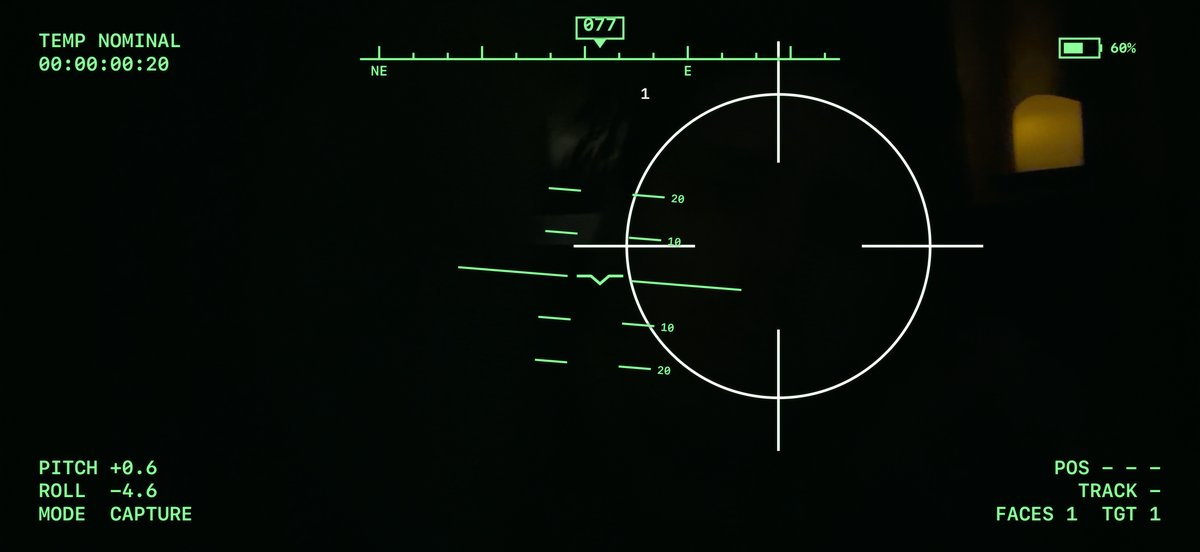
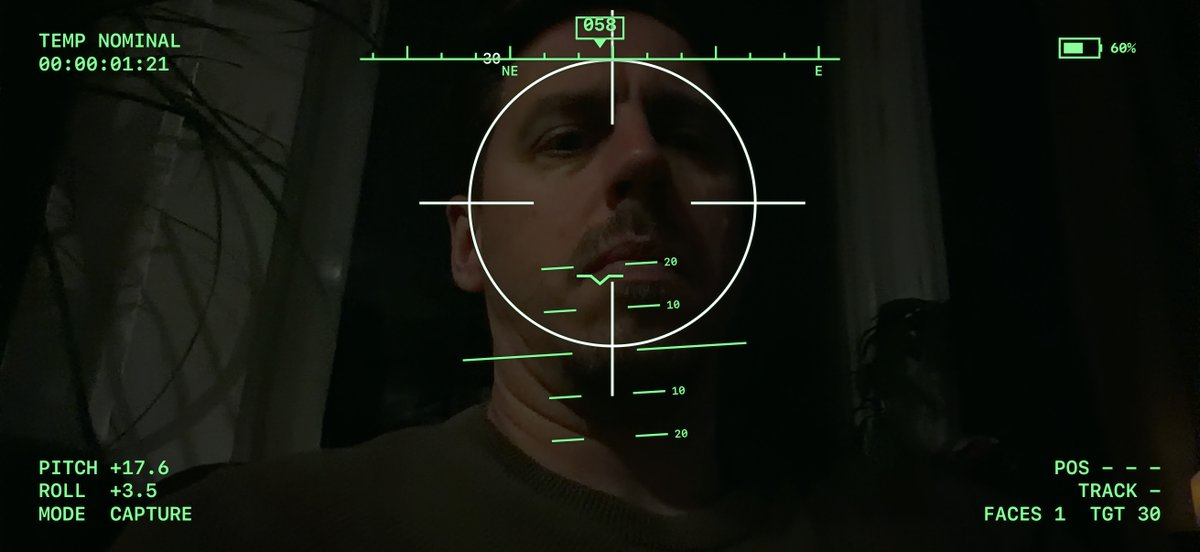
Phone HUD screenshots from build 8 on the website and README
All four HUD themes on an iPhone 18 Pro with a person in front (published
with his consent): boxes on the face, the robot's own lines, compass and
tilt; replaces the dark build 7 shots.

diff --git a/docs/index.html b/docs/index.html
@@ -142,10 +142,12 @@
           </figure>
         </div>
         <h3 style="color:#fff; margin-top: 40px">On a real phone</h3>
-        <p class="sub" style="margin-bottom: 20px">Screenshots from an iPhone 18 Pro in a dim room: the face it found is locked, with the phone's own battery, heading and tilt.</p>
+        <p class="sub" style="margin-bottom: 20px">Screenshots from an iPhone 18 Pro: the box sits on the face it found, the eyes follow it, and the phone's own battery, heading and tilt are on the HUD.</p>
         <div class="grid" style="grid-template-columns: repeat(2, minmax(0, 1fr))">
-          <img class="shot" src="media/device-hud-hunter.jpg" alt="Hunter HUD on an iPhone: red camera view in a dim room, a locked face box, compass heading 066, battery 60 percent" loading="lazy">
-          <img class="shot" src="media/device-hud-flight.jpg" alt="Flight HUD on an iPhone: compass 077, artificial horizon, crosshair on the face, battery 60 percent, pitch and roll" loading="lazy">
+          <img class="shot" src="media/device-hud-hunter.jpg" alt="Hunter HUD on an iPhone: red camera view, a box locked on a man's face, MATCH, compass heading 095, battery 60 percent" loading="lazy">
+          <img class="shot" src="media/device-hud-flight.jpg" alt="Flight HUD on an iPhone: crosshair on a man's face, compass 058, artificial horizon, pitch 17.6 degrees, battery 60 percent" loading="lazy">
+          <img class="shot" src="media/device-hud-camcorder.jpg" alt="Camcorder HUD on an iPhone: crosshair on a man's face, the robot's own lines TASK SAY HELLO and SPEED 0.4 M/S, the face in the corner" loading="lazy">
+          <img class="shot" src="media/device-hud-boot.jpg" alt="Boot HUD on an iPhone: boot text, corners locked on a man's face, LOCK, heading and tilt" loading="lazy">
         </div>
         <div class="split" style="margin-top: 48px">
           <div>

diff --git a/README.md b/README.md
@@ -190,11 +190,13 @@ openhead hud --set task="DELIVER CUP" --set speed=0.4 --line "TASK {task}" --lin
 openhead mode sensing && openhead watch pose -n 3
 ```
 
-On a real phone (iPhone 18 Pro, dim room):
+On a real phone (iPhone 18 Pro):
 
 | Hunter | Flight |
 | --- | --- |
-| ![Hunter HUD on an iPhone: locked face, compass, battery](docs/media/device-hud-hunter.jpg) | ![Flight HUD on an iPhone: compass, horizon, battery, tilt](docs/media/device-hud-flight.jpg) |
+| ![Hunter HUD on an iPhone: box locked on a face, MATCH, compass, battery](docs/media/device-hud-hunter.jpg) | ![Flight HUD on an iPhone: crosshair on a face, compass, horizon, tilt](docs/media/device-hud-flight.jpg) |
+| **Camcorder, with the robot's own lines** | **Boot** |
+| ![Camcorder HUD on an iPhone: crosshair on a face, TASK and SPEED lines, face in the corner](docs/media/device-hud-camcorder.jpg) | ![Boot HUD on an iPhone: boot text, corners locked on a face, LOCK](docs/media/device-hud-boot.jpg) |
 
 Sensor data recorded from the phone (tilt, acceleration, rotation, face bearing, ARKit position and path), with CSV files, is on the [website](https://patrikbichis.github.io/openhead/#sensors); `tools/sensor_plots.py` records any head (`--from-csv` redraws).
 
